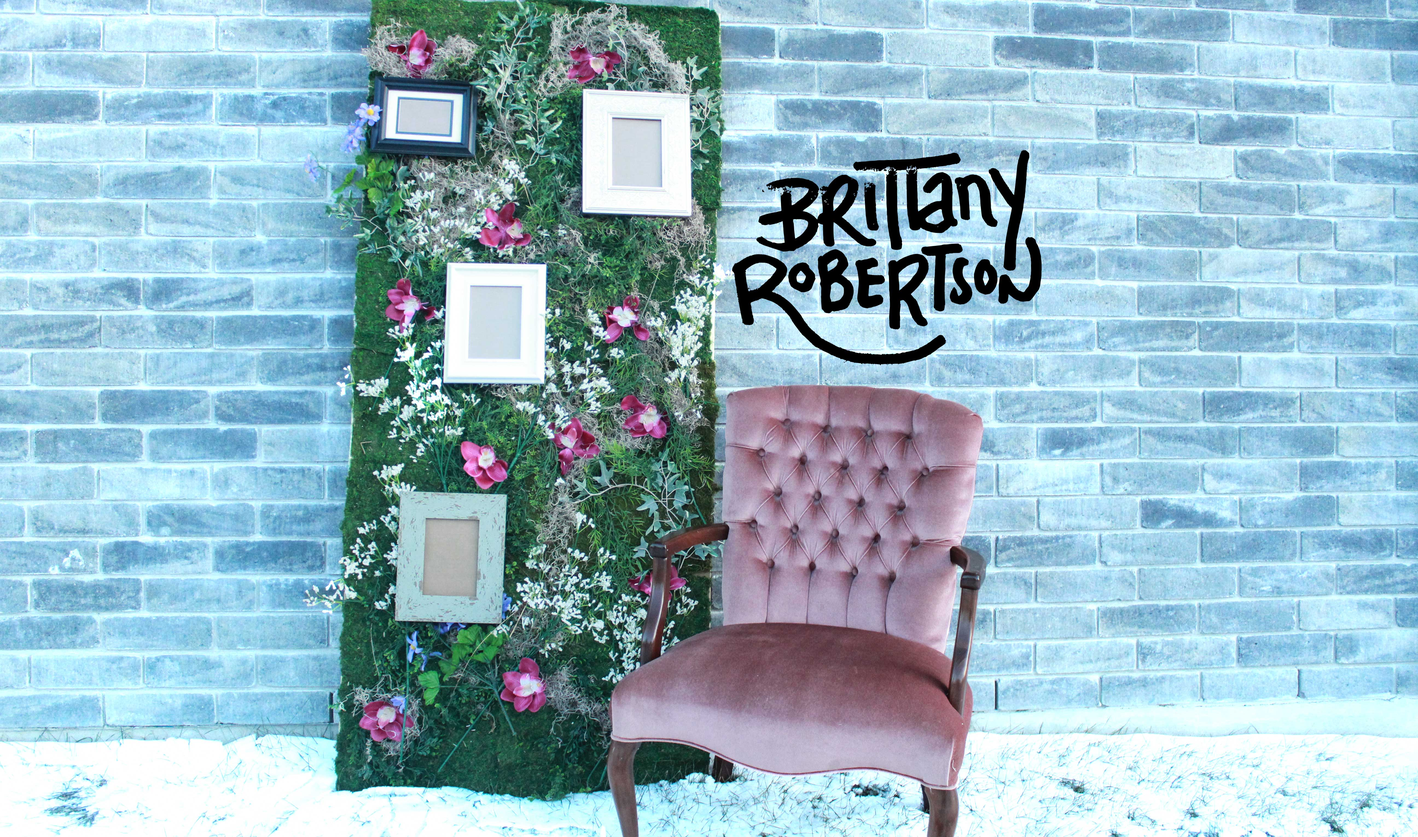
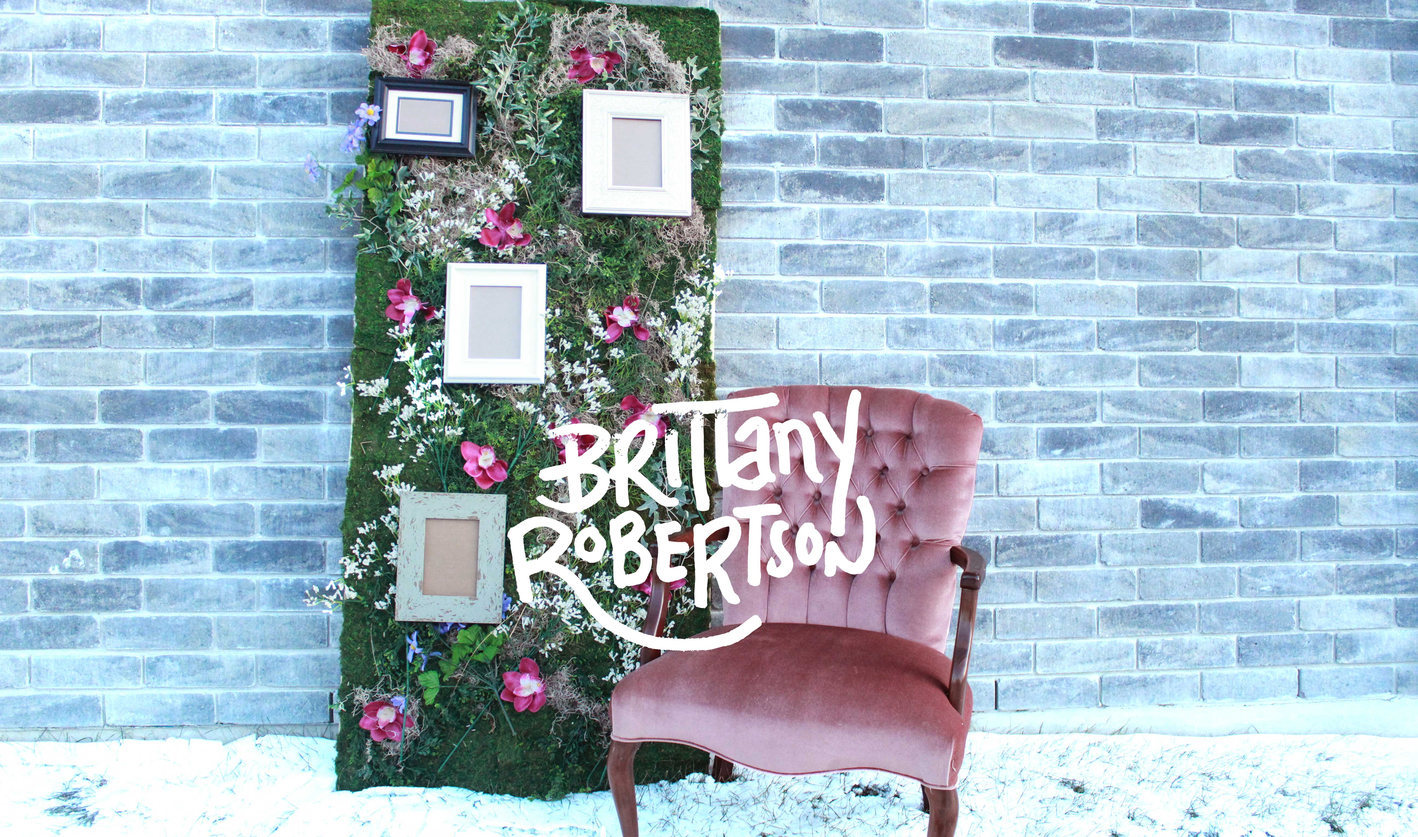
.

Changed region(s): [[0.3438, 0.4654, 0.625, 0.7756], [0.5, 0.1862, 0.75, 0.4344]]

diff --git a/css/main.css b/css/main.css
@@ -1375,12 +1375,12 @@ border-bottom-right-radius: 3px;
 and (min-width : 1224px) {
 
 .video {
-background-size: 1500px;
+background-size: 1300px;
 padding: -1rem 0;
-/* margin-top:-rem; */
+/* margin-top: -rem; */
 background-attachment: fixed;
 display: block;
-margin-top: -2210px;
+margin-top: -1620px;
 /* margin-bottom: -1900px; */
 background-image: url('../img/banner-final.jpg');
 overflow: hidden !important;
@@ -1391,7 +1391,7 @@ ul#list-nav {
 	margin: 90px;
 	padding: 0;
 	right: 0;
-	margin-top: 650px;
+	margin-top: 60px;
   transform: translateX(500px);
   -webkit-animation: navslide 3000ms ease-out forwards;
   -moz-animation: navslide 3000ms ease-out forwards;
@@ -1407,12 +1407,12 @@ ul#list-nav li {
 ul#list-nav li a {
 	text-decoration: none;
 	padding: 10px 0;
-	width: 100px;
-	color: #fff;
+	width: 130px;
+	color: #000;
 	float: right;
 	text-align: center;
 	font-family: 'Droid Serif', serif;
-	font-size: 1.2rem;
+	font-size: 1.3rem;
 }
 
 ul#list-nav li a:hover {
@@ -1656,10 +1656,10 @@ and (min-width : 1440px) {
 .video {
 background-size: 1500px;
 padding: -1rem 0;
-/* margin-top:-rem; */
+/* margin-top: -rem; */
 background-attachment: fixed;
 display: block;
-margin-top: -2410px;
+margin-top: -1850px;
 /* margin-bottom: -1900px; */
 background-image: url('../img/banner-final.jpg');
 overflow: hidden !important;
@@ -1668,9 +1668,9 @@ overflow: hidden !important;
 ul#list-nav {
 	list-style: none;
 	margin: 90px;
-	padding: 0;
+	padding: 0px;
 	right: 0;
-	margin-top: 650px;
+	margin-top: 80px;
   transform: translateX(500px);
   -webkit-animation: navslide 3000ms ease-out forwards;
   -moz-animation: navslide 3000ms ease-out forwards;
@@ -1684,14 +1684,14 @@ ul#list-nav li {
 }
 
 ul#list-nav li a {
-	text-decoration: none;
-	padding: 10px 0;
-	width: 100px;
-	color: #fff;
-	float: right;
-	text-align: center;
-	font-family: 'Droid Serif', serif;
-	font-size: 1.2rem;
+text-decoration: none;
+padding: 10px 0;
+width: 150px;
+color: #000;
+float: right;
+text-align: center;
+font-family: 'Droid Serif', serif;
+font-size: 1.6rem;
 }
 
 ul#list-nav li a:hover {

diff --git a/js/main.js b/js/main.js
@@ -192,3 +192,8 @@ speed : 0.15
 $('.footer-image').parallax({
 speed : 0.15
 });
+
+function scroll(element, parent){
+     $(parent).animate({ scrollTop: $(parent).scrollTop() + $(element).offset().top - $(parent).offset().top }, { duration: 'slow', easing: 'swing'});
+     $('html,body').animate({ scrollTop: $(parent).offset().top - $(window).height() + $(element).height() }, { duration: 1000, easing: 'swing'});
+}
